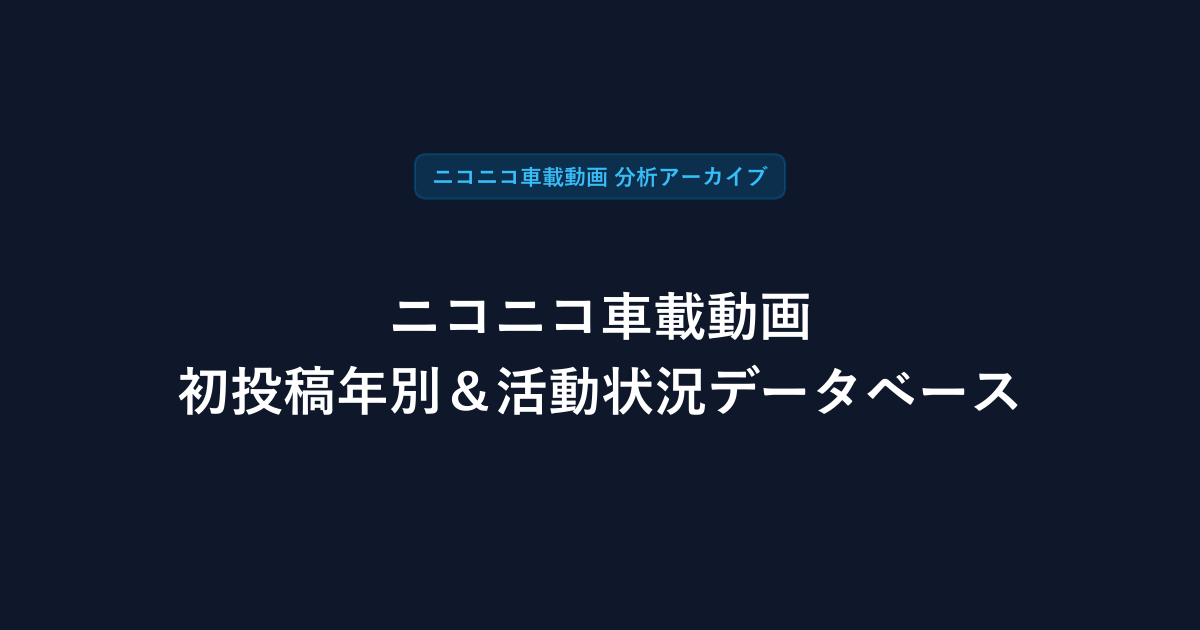
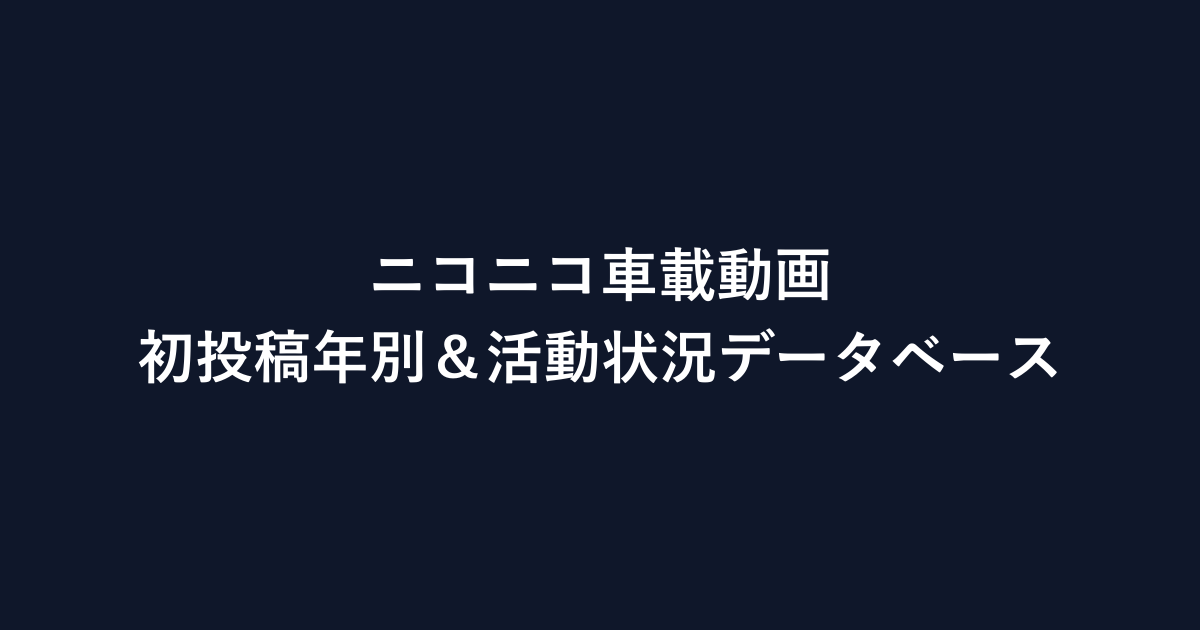
Remove redundant badge and unify title across site and OGP card

Changed region(s): [[0.1233, 0.3921, 0.8942, 0.6635], [0.3392, 0.2413, 0.6783, 0.3317]]

diff --git a/index.html b/index.html
@@ -12,7 +12,7 @@
   <meta property="og:title" content="ニコニコ車載動画 初投稿年別＆活動状況データベース">
   <meta property="og:description" content="ニコニコ動画の車載動画ジャンルにおける歴代全初投稿者（2,976名）の総合データベース。初投稿年別の絞り込みや直近1年間の活動状況によるリアルタイム検索・分析が可能です。">
   <meta property="og:image" content="https://estshorter.github.io/nico-onboard-viewer/ogp.png">
-  <meta property="og:site_name" content="ニコニコ車載動画 分析アーカイブ">
+  <meta property="og:site_name" content="ニコニコ車載動画 初投稿年別＆活動状況データベース">
   <meta property="og:locale" content="ja_JP">
 
   <!-- Twitter (X) Card Tags -->
@@ -32,8 +32,7 @@
     <!-- Header -->
     <header class="app-header">
       <div class="header-content">
-        <div class="header-badge">ニコニコ車載動画 分析アーカイブ</div>
-        <h1 class="header-title">初投稿年別 車載主データベース ＆ 活動状況アーカイブ</h1>
+        <h1 class="header-title">ニコニコ車載動画 初投稿年別＆活動状況データベース</h1>
         <p class="header-desc">
           ニコニコ動画の車載動画ジャンルにおける歴代全初投稿者（2,976名）の総合データベースです。初投稿年別の絞り込みや、直近1年間（2025〜2026年）の活動状況によるリアルタイム検索が可能です。
         </p>

diff --git a/generate_ogp.py b/generate_ogp.py
@@ -15,17 +15,11 @@ ax.axis('off')
 # Background clean dark rectangle
 ax.add_patch(patches.Rectangle((0, 0), 1, 1, transform=ax.transAxes, color='#0f172a'))
 
-# Top Category Badge (Centered)
-ax.text(0.5, 0.72, ' ニコニコ車載動画 分析アーカイブ ', color='#38bdf8', fontsize=16, fontweight='bold',
-        ha='center', va='center',
-        bbox=dict(boxstyle='round,pad=0.5', facecolor='#0369a1', edgecolor='#0284c7', alpha=0.3, linewidth=1.5),
-        transform=ax.transAxes)
-
-# Main Title (Large, Bold, Centered, Highly Legible)
-ax.text(0.5, 0.44, 'ニコニコ車載動画\n初投稿年別＆活動状況データベース', color='#ffffff', fontsize=38, fontweight='bold',
+# Main Title (Large, Bold, Centered, Perfectly Balanced)
+ax.text(0.5, 0.50, 'ニコニコ車載動画\n初投稿年別＆活動状況データベース', color='#ffffff', fontsize=42, fontweight='bold',
         ha='center', va='center', linespacing=1.4, transform=ax.transAxes)
 
 output_path = r"C:\Users\estshorter\src\nico-onboard-viewer\ogp.png"
 plt.savefig(output_path, facecolor=fig.get_facecolor(), dpi=100)
 plt.close()
-print(f"Successfully generated ultra-clean OGP image: {output_path}")
+print(f"Successfully generated clean title-only OGP image: {output_path}")
